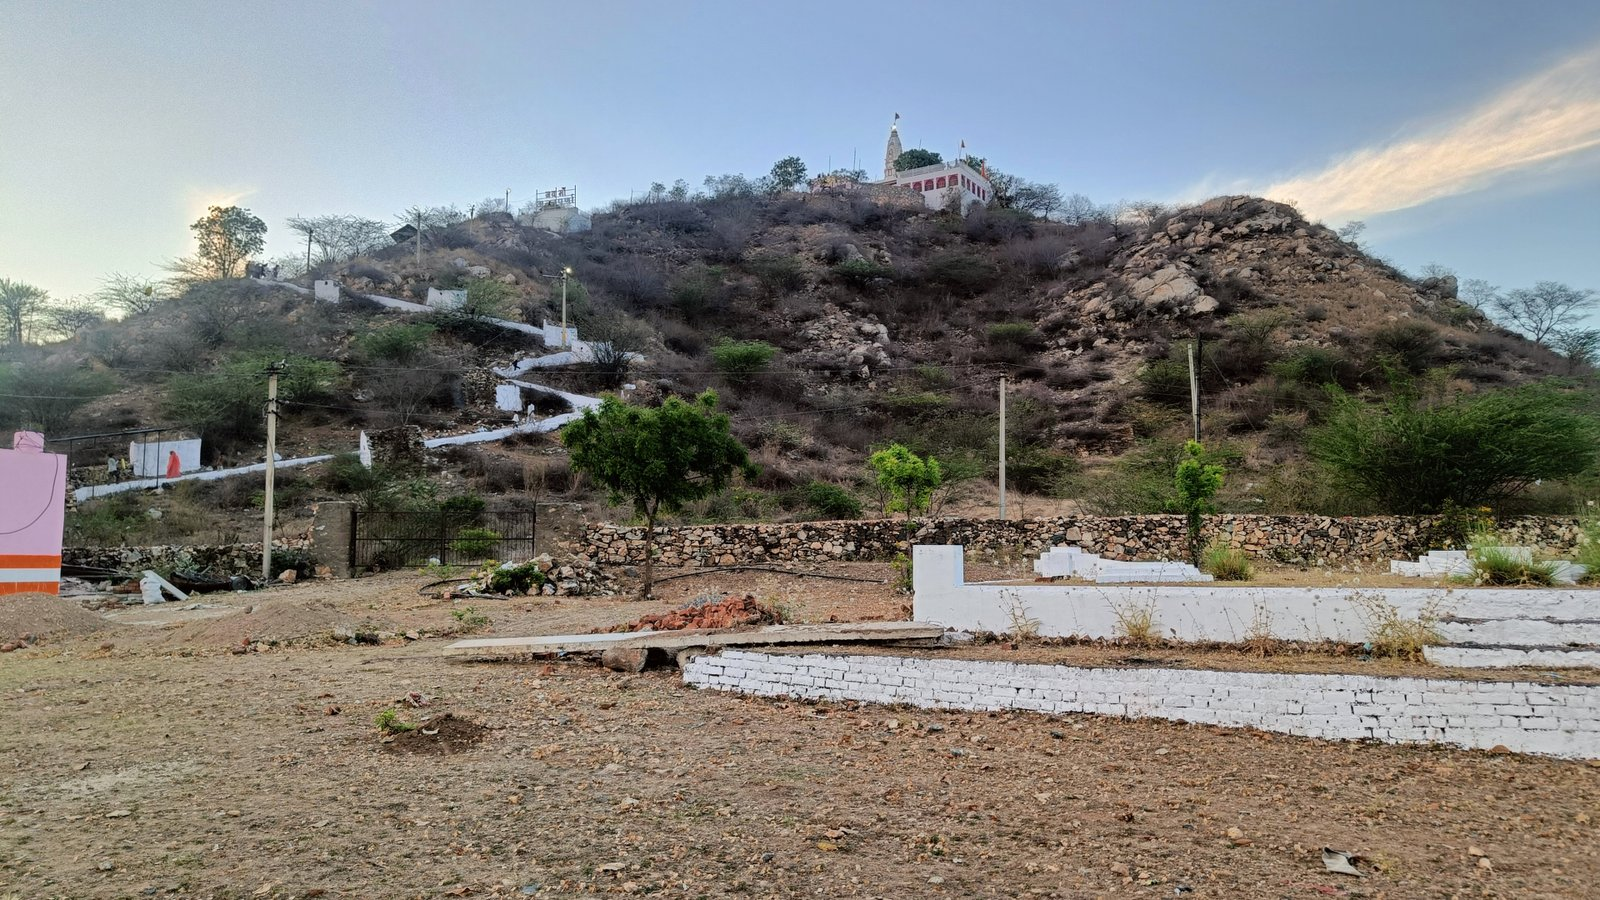
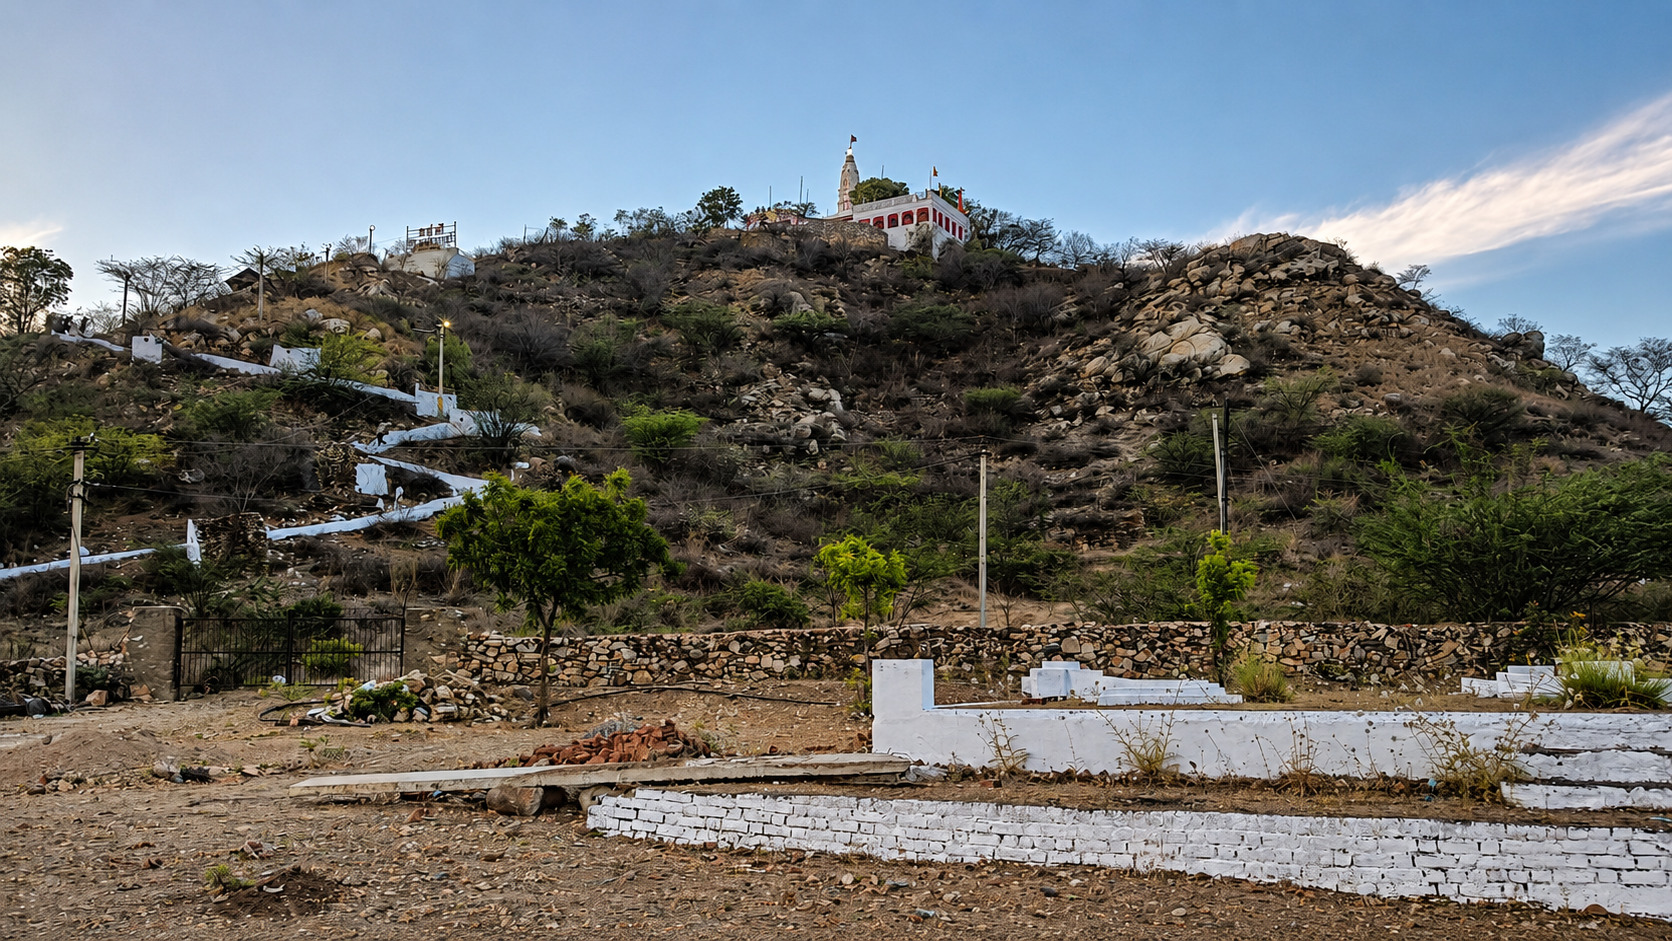
feat: Enhance mobile responsiveness and UX; add dynamic FAB positioning and detail panel adjustments

diff --git a/singhaaval.com/css/styles.css b/singhaaval.com/css/styles.css
@@ -426,7 +426,6 @@ p {
   object-fit: cover;
   position: absolute;
   inset: 0;
-  will-change: transform;
   transform-origin: center center;
 }
 
@@ -767,6 +766,65 @@ p {
   display: grid;
   grid-template-columns: 1fr 1fr;
   min-height: 400px;
+}
+
+/* Responsive Detail Panel - Mobile Fix (Option A) */
+@media (max-width: 1024px) {
+  .detail-panel-inner {
+    grid-template-columns: 1fr;
+    min-height: auto;
+  }
+
+  .detail-panel-image {
+    height: 300px;
+    min-height: 300px;
+  }
+
+  .detail-panel-info {
+    padding: var(--space-lg);
+  }
+}
+
+@media (max-width: 768px) {
+  .detail-panel-inner {
+    grid-template-columns: 1fr;
+    min-height: auto;
+    max-height: 70vh;
+  }
+
+  .detail-panel-image {
+    height: 250px;
+    min-height: 250px;
+  }
+
+  .detail-panel-info {
+    padding: var(--space-md);
+    justify-content: flex-start;
+    overflow-y: auto;
+  }
+
+  .detail-panel-close {
+    width: 40px;
+    height: 40px;
+    font-size: 1.5rem;
+  }
+
+  .detail-spec-grid {
+    grid-template-columns: 1fr;
+  }
+
+  .detail-spec-item:nth-child(odd) {
+    border-right: none;
+  }
+
+  .detail-panel-actions {
+    flex-direction: column;
+    gap: var(--space-sm);
+  }
+
+  .detail-panel-actions .btn {
+    width: 100%;
+  }
 }
 
 .detail-panel-image {
@@ -1262,6 +1320,27 @@ textarea.form-input {
   cursor: pointer;
   text-decoration: none;
   animation: fabBounce 2s ease-in-out infinite;
+}
+
+/* Dynamic FAB Positioning on Mobile (Option A) */
+@media (max-width: 768px) {
+  .whatsapp-fab {
+    bottom: 80px;  /* Higher to avoid bottom nav/elements */
+    right: var(--space-sm);  /* Closer to edge */
+    width: 56px;
+    height: 56px;
+    font-size: 1.35rem;
+  }
+}
+
+@media (max-width: 480px) {
+  .whatsapp-fab {
+    bottom: 70px;
+    right: 12px;
+    width: 52px;
+    height: 52px;
+    font-size: 1.25rem;
+  }
 }
 
 .whatsapp-fab:hover {

diff --git a/singhaaval.com/js/scripts.js b/singhaaval.com/js/scripts.js
@@ -10,7 +10,6 @@ document.addEventListener('DOMContentLoaded', () => {
   initProductFilter();
   initEnquiryPreFill();
   initSmoothScroll();
-  initHeroParallax();
   initTestimonials();
   initProductDetailPanel();
   initWhatsAppFAB();
@@ -144,26 +143,9 @@ function initSmoothScroll() {
 }
 
 /* ─────────────────────────────────────────────
-   7. GPU-Accelerated Hero Parallax
+   7. Hero Parallax Removed (See Option A: Cleaner UX)
+   Static image, no scroll transformation
    ───────────────────────────────────────────── */
-function initHeroParallax() {
-  const img = document.querySelector('.hero-image-wrap img');
-  if (!img) return;
-
-  let ticking = false;
-
-  const update = () => {
-    const y = window.scrollY;
-    if (y <= window.innerHeight) {
-      img.style.transform = `translate3d(0, ${y * 0.25}px, 0) scale(${1 + y * 0.0003})`;
-    }
-    ticking = false;
-  };
-
-  window.addEventListener('scroll', () => {
-    if (!ticking) { requestAnimationFrame(update); ticking = true; }
-  }, { passive: true });
-}
 
 /* ─────────────────────────────────────────────
    8. Testimonials Carousel

diff --git a/singhaaval.com/PRODUCT-STRUCTURE-BRAINSTORM.md b/singhaaval.com/PRODUCT-STRUCTURE-BRAINSTORM.md
@@ -1,0 +1,207 @@
+# Product Structure Refactor
+
+**Goal:** Dynamic, scalable product management. Add products by creating folders—no code editing needed.
+
+**Problem:** Hardcoded HTML products + descriptions in attributes = painful to scale.
+
+**Solution:** File-based system with JSON metadata + Markdown descriptions.
+
+---
+
+## 📁 Folder Structure
+
+```
+products/
+├── banjara-bag/
+│   ├── data.json           # Metadata: HSN, material, sizes
+│   ├── description.md      # Full description (easy to edit)
+│   └── image.jpg
+├── jhola-bag/
+│   ├── data.json
+│   ├── description.md
+│   └── image.jpg
+└── products.json           # Manifest: list all products
+```
+
+## 📋 File Formats
+
+**`products/banjara-bag/data.json`**
+```json
+{
+  "id": "banjara-bag",
+  "title": "Embroidered Banjara Bag",
+  "category": "bags",
+  "image": "products/banjara-bag/image.jpg",
+  "hsCode": "HS 42022220",
+  "material": "Organic Handspun Cotton Canvas",
+  "dimensions": "42 × 35 × 12 cm",
+  "packaging": "50 units / carton",
+  "descriptionFile": "products/banjara-bag/description.md",
+  "shortDesc": "Traditional Banjara mirrorwork and vintage textile patches."
+}
+```
+
+**`products/banjara-bag/description.md`** (Markdown—easy to edit)
+```markdown
+# Embroidered Banjara Bag
+
+Exquisite shoulder bag with traditional Banjara mirrorwork, metallic coin appliqués, and hand-stitched borders.
+
+## Craftsmanship
+- 3–4 days of artisan work per piece
+- Hand-embroidered with vintage textile patches
+- Mirror work from Ajmer craftspeople
+- Eco-friendly, chemical-free dyes
+
+## Use Cases
+- Luxury retail boutiques | European export | Corporate gifts | Heritage collectors
+```
+
+**`products/products.json`** (Master list)
+```json
+[
+  {"id": "banjara-bag", "dataFile": "products/banjara-bag/data.json"},
+  {"id": "jhola-bag", "dataFile": "products/jhola-bag/data.json"}
+]
+```
+
+---
+
+## 💻 How It Works: `product-loader.js`
+
+```javascript
+// Load manifest → fetch all product data → render grid
+async function loadProducts() {
+  const res = await fetch('/products/products.json');
+  const productList = await res.json();
+  
+  const products = await Promise.all(
+    productList.map(async (item) => {
+      const data = await fetch(item.dataFile).then(r => r.json());
+      const desc = await fetch(data.descriptionFile).then(r => r.text());
+      return { ...data, fullDescription: desc };
+    })
+  );
+  
+  renderProductsGrid(products);
+}
+
+// Render grid - auto-detects new products
+function renderProductsGrid(products) {
+  const grid = document.querySelector('.products-grid');
+  grid.innerHTML = products.map(p => `
+    <article class="product-card" data-id="${p.id}" data-category="${p.category}">
+      <img src="${p.image}" alt="${p.title}" loading="lazy">
+      <h3>${p.title}</h3>
+      <p>${p.shortDesc}</p>
+      <a href="enquiry.html?product=${p.id}" class="btn">Request Quote</a>
+    </article>
+  `).join('');
+}
+
+// Detail panel shows full markdown description
+function openDetailPanel(product) {
+  const descHTML = markdownToHTML(product.fullDescription); // Use marked.js
+  // ... render panel with descHTML
+}
+
+// Initialize on page load
+document.addEventListener('DOMContentLoaded', loadProducts);
+```
+
+**Key:** When you add new product folder + update `products.json`, the loader automatically picks it up on page refresh! ✨
+
+---
+
+## � To Add a New Product
+
+1. **Create folder:** `mkdir products/new-product`
+2. **Create `data.json`:** Copy from existing product, update metadata
+3. **Create `description.md`:** Write product description in markdown
+4. **Add image:** `products/new-product/image.jpg`
+5. **Update `products.json`:** Add `{"id": "new-product", "dataFile": "products/new-product/data.json"}`
+6. **Refresh page** → New product appears automatically ✨
+
+## 🔧 To Edit Existing Product
+
+- **Description:** Edit `.md` file → Refresh page → Changes live instantly
+- **Image:** Replace image file → Refresh page
+- **Metadata:** Edit `data.json` → Refresh page
+
+---
+
+## � Implementation Approach
+
+**Recommended: Option 1 - Simple File System**
+- ✅ No backend/database needed (works on Vercel)
+- ✅ JSON + Markdown files easy for non-coders to edit
+- ✅ Scales to 50-100 products easily
+- ✅ Git version control for changes
+- ✅ Future migration to API simple
+
+**Future Options:**
+- Option 2: Migrate to Node.js/Express API when hitting 100+ products
+- Option 3: Add database (MongoDB) for advanced filtering/search
+
+---
+
+## 💡 What Else We Can Do
+
+### **Phase 2: Search & Filter Enhancements**
+- Add search bar (search across titles, descriptions, categories)
+- Dynamic category filtering (parse categories from data.json)
+- Price range slider (if you add pricing to data.json)
+- Sort by: newest, popularity, price, name
+
+### **Phase 3: Admin Features**
+- Simple admin panel: list all products, add/edit/delete via UI
+- Auto-generate product folders (without using terminal)
+- Image upload/resize tool
+- Preview before publishing
+
+### **Phase 4: Advanced Features**
+- **Bulk order calculator** (units × base price + discount tiers)
+- **Product comparison** (side-by-side specs)
+- **Email alerts** (notify customers when new products arrive)
+- **Wishlist/favorites** (store in localStorage)
+- **Analytics** (track which products are viewed most)
+- **Multi-language support** (translations for descriptions)
+- **Batch export** (generate CSV/PDF catalog for sharing with buyers)
+
+### **Phase 5: B2B Integration**
+- Connect to Stripe/Razorpay for instant payments
+- Wholesale pricing tiers (per-product discounts)
+- Customer accounts (order history, saved carts)
+- Invoice generation
+- Order status tracking
+
+### **Phase 6: SEO & Marketing**
+- Dynamic meta tags per product (for Google/social sharing)
+- Product sitemap.xml (auto-generated)
+- Schema.org structured data (already partially done)
+- Open Graph images for social sharing
+
+### **Phase 7: Performance**
+- Lazy-load product descriptions (only fetch when clicked)
+- Cache products in localStorage
+- Generate static HTML pages per product (for better SEO)
+- Image optimization (WebP format with fallbacks)
+
+---
+
+## ✅ Your Questions Answered
+
+**Q: Will this dynamically update as I add more products?**
+
+**A: YES!** 100% automatic:
+- Add new folder → update `products.json` → page refresh shows new product
+- No code changes, no build process, no configuration
+- Loader fetches from manifest on every page load
+
+**Q: What else can we do?**
+
+**A: LOTS!** See "What Else We Can Do" above for 7 phases of enhancements (search, admin panel, bulk calculator, wholesale pricing, SEO, performance, etc.). Pick what matters most to your business.
+
+**Ready to start?**
+
+Implement Step 1: Create folder structure + migrate existing 6 products? I can set this up now!
